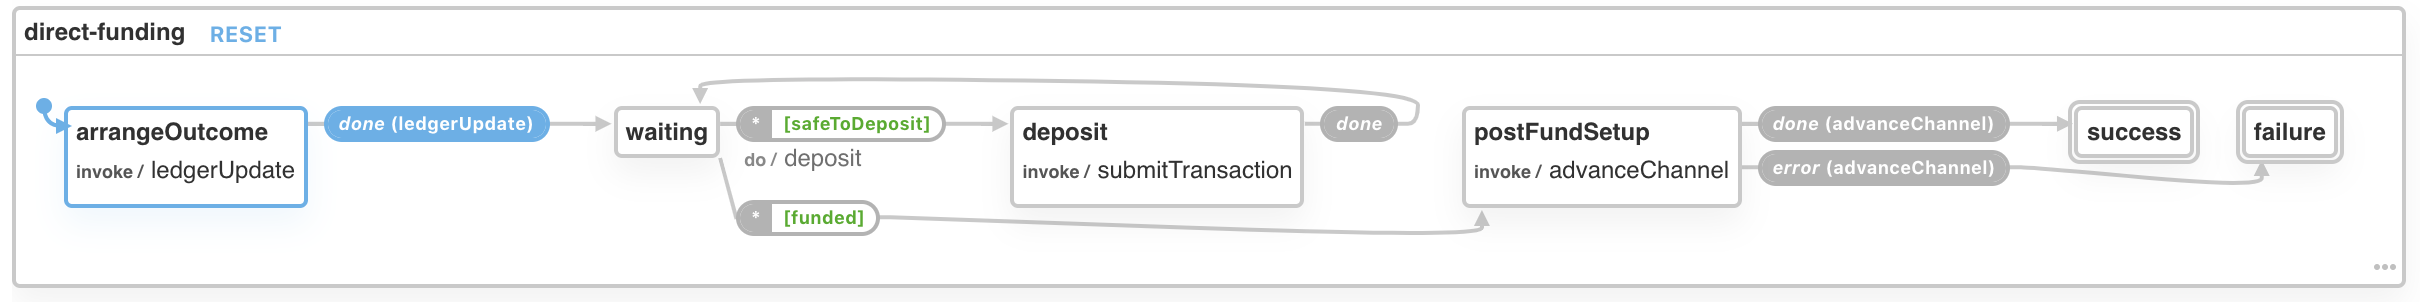
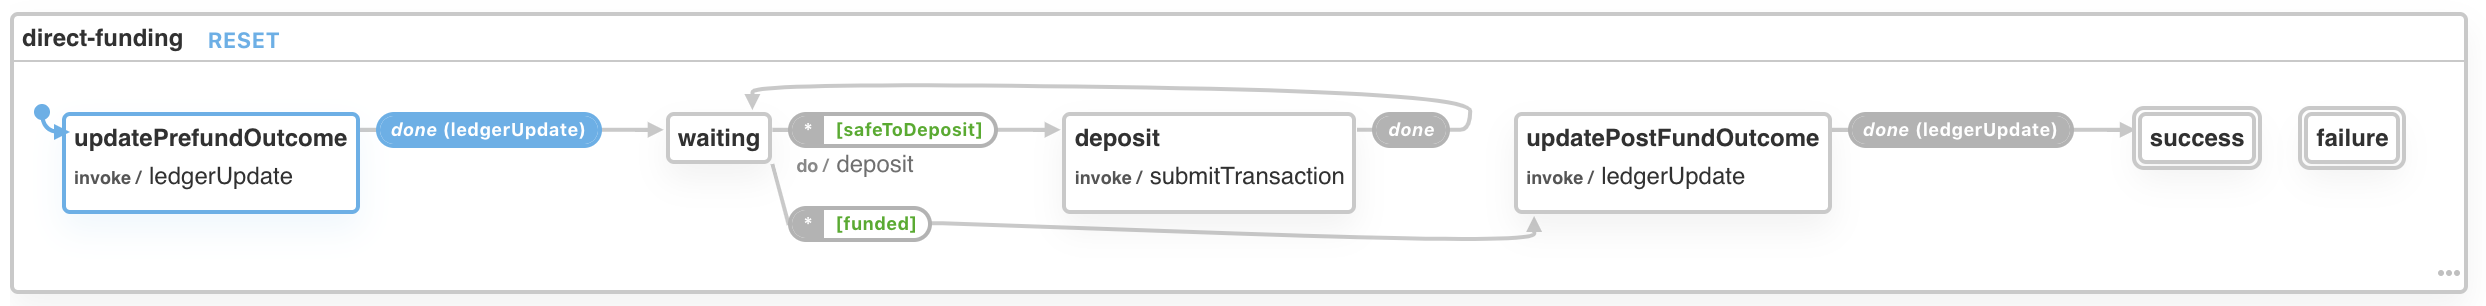
Explain outcome manipulations in direct funding

Changed region(s): [[0.0, 0.0, 1.0, 0.9834], [0.8988, 0.596, 0.9298, 0.6258]]

diff --git a/packages/wallet-specs/src/direct-funding.ts b/packages/wallet-specs/src/direct-funding.ts
@@ -1,18 +1,110 @@
-import { Store } from './store';
+import { Chain, ChannelState, Outcome, OutcomeItem, Store } from '.';
 import { saveConfig } from './utils';
 
+const chain = new Chain();
 const store = new Store();
 
 const PROTOCOL = 'direct-funding';
 const success = { type: 'final' };
 const failure = { type: 'final' };
 
-const arrangeOutcome = {
+interface Context {
+  channelID: string;
+  minimalOutcome: Outcome;
+}
+
+const sum = (a, b) => a + b;
+
+function getHoldings(state: ChannelState, destination: string): number {
+  const { outcome } = state;
+
+  let currentFunding = chain.holdings(state.channelID);
+  return outcome
+    .filter(item => item.destination === destination)
+    .map(item => {
+      const payout = Math.min(currentFunding, item.amount);
+      currentFunding -= payout;
+      return payout;
+    })
+    .reduce(sum);
+}
+
+function assertOk(minimalOutcome: Outcome): boolean {
+  return uniqueDestinations(minimalOutcome).length === minimalOutcome.length;
+}
+
+function obligation(
+  state: ChannelState,
+  minimalOutcome: Outcome,
+  destination: string
+): number {
+  assertOk(minimalOutcome);
+  const myHoldings = getHoldings(state, destination);
+
+  const myTargetLevel = (
+    minimalOutcome.find(item => item.destination === destination) || {
+      amount: 0,
+    }
+  ).amount;
+  return Math.max(myTargetLevel - myHoldings, 0);
+}
+
+function uniqueDestinations(outcome: Outcome): string[] {
+  const firstEntry = (value, index, self) => {
+    return self.indexOf(value) === index;
+  };
+
+  return outcome.map(i => i.destination).filter(firstEntry);
+}
+
+function preDepositOutcome(
+  channelID: string,
+  minimalOutcome: Outcome
+): Outcome {
+  const { state } = store.get(channelID);
+  const { outcome } = state;
+
+  const destinations = uniqueDestinations(outcome.concat(minimalOutcome));
+  return outcome.concat(
+    destinations.map(destination => ({
+      destination,
+      amount: obligation(state, minimalOutcome, destination),
+    }))
+  );
+}
+
+function amount(item: OutcomeItem): number {
+  return item.amount;
+}
+
+function postDepositOutcome(channelID: string): Outcome {
+  const { outcome } = store.get(channelID).state;
+  const destinations = uniqueDestinations(outcome);
+
+  return destinations.map(destination => ({
+    destination,
+    amount: outcome
+      .filter(i => i.destination === destination)
+      .map(amount)
+      .reduce(sum),
+  }));
+}
+
+interface Base {
+  targetChannelID: string;
+  minimalOutcome: Outcome;
+}
+
+type UpdateOutcome = Base & {
+  targetOutcome: Outcome;
+};
+
+const updatePrefundOutcome = {
   invoke: {
     src: 'ledgerUpdate',
-    // data: `context => context`, // This is a bit complicated
+    data:
+      'context => { return { targetChannelID: context.targetChannelID, targetOutcome: preDepositOutcome(context.targetChannelID, context.minimalOutcome), }; }',
     onDone: 'waiting',
-    // onError: 'failure', // This makes the diagram ugly
   },
 };
 
@@ -20,7 +112,7 @@ const waiting = {
   on: {
     '*': [
       { target: 'deposit', cond: 'safeToDeposit', actions: 'deposit' },
-      { target: 'postFundSetup', cond: 'funded' },
+      { target: 'updatePostFundOutcome', cond: 'funded' },
     ],
   },
 };
@@ -33,22 +125,23 @@ const deposit = {
   onError: 'failure',
 };
 
-const postFundSetup = {
+const updatePostFundOutcome = {
   invoke: {
-    src: 'advanceChannel',
+    src: 'ledgerUpdate',
+    data:
+      'context => ({ targetChannelID: context.targetChannelID, targetOutcome: postDepositOutcome(context.targetChannelID), })',
     onDone: 'success',
-    onError: 'failure',
   },
 };
 
 const ledgerFundingConfig = {
   key: PROTOCOL,
-  initial: 'arrangeOutcome',
+  initial: 'updatePrefundOutcome',
   states: {
-    arrangeOutcome,
+    updatePrefundOutcome,
     waiting,
     deposit,
-    postFundSetup,
+    updatePostFundOutcome,
     success,
     failure,
   },
@@ -57,6 +150,11 @@ const ledgerFundingConfig = {
 const guards = {
   safeToDeposit: 'x => true',
   funded: 'x => true',
+};
+
+const helpers = {
+  preDepositOutcome: x => true,
+  postDepositOutcome: x => true,
 };
 
 saveConfig(ledgerFundingConfig, { guards });

diff --git a/packages/wallet-specs/configs/direct-funding.config.js b/packages/wallet-specs/configs/direct-funding.config.js
@@ -1,10 +1,17 @@
 const config = {
   key: 'direct-funding',
-  initial: 'arrangeOutcome',
+  initial: 'updatePrefundOutcome',
   states: {
-    arrangeOutcome: {
+    updatePrefundOutcome: {
       invoke: {
         src: 'ledgerUpdate',
+        data: context => {
+          return {
+            targetChannelID: context.targetChannelID,
+            targetOutcome:
+              'preDepositOutcome(context.targetChannelID, context.minimalOutcome)',
+          };
+        },
         onDone: 'waiting',
       },
     },
@@ -12,7 +19,7 @@ const config = {
       on: {
         '*': [
           { target: 'deposit', cond: 'safeToDeposit', actions: 'deposit' },
-          { target: 'postFundSetup', cond: 'funded' },
+          { target: 'updatePostFundOutcome', cond: 'funded' },
         ],
       },
     },
@@ -21,8 +28,15 @@ const config = {
       onDone: 'waiting',
       onError: 'failure',
     },
-    postFundSetup: {
-      invoke: { src: 'advanceChannel', onDone: 'success', onError: 'failure' },
+    updatePostFundOutcome: {
+      invoke: {
+        src: 'ledgerUpdate',
+        data: context => ({
+          targetChannelID: context.targetChannelID,
+          targetOutcome: 'postDepositOutcome(context.targetChannelID)',
+        }),
+        onDone: 'success',
+      },
     },
     success: { type: 'final' },
     failure: { type: 'final' },

diff --git a/packages/wallet-specs/src/chain.ts b/packages/wallet-specs/src/chain.ts
@@ -1,0 +1,43 @@
+import { ChannelState, Outcome, Recipient, SignedState } from '.';
+
+export class Chain {
+  private _holdings: { [channelID: string]: number };
+
+  constructor() {
+    this._holdings = {
+      '0xabc': 1,
+      '0x123': 2,
+    };
+  }
+
+  public holdings(channelID) {
+    return this._holdings[channelID];
+  }
+
+  public deposit(channelID: string, expectedHeld: number, amount: number): Deposited | Revert {
+    const current = this._holdings[channelID] || 0;
+    if (current >= expectedHeld) {
+      this._holdings[channelID] = (this._holdings[channelID] || 0) + amount;
+      return {
+        type: 'DEPOSITED',
+        channelID,
+        amount,
+        total: this._holdings[channelID],
+      };
+    } else {
+      return 'REVERT';
+    }
+  }
+}
+
+// The store would send this action whenever the channel is updated
+export interface Deposited {
+  type: 'DEPOSITED';
+  channelID: string;
+  amount: number;
+  total: number;
+}
+
+export type Revert = 'REVERT';
+
+export type ChainEvent = Deposited | Revert;

diff --git a/packages/wallet-specs/src/index.ts b/packages/wallet-specs/src/index.ts
@@ -1,7 +1,11 @@
 export type AppData = string;
 export type Signature = string;
 export type Recipient = any;
-export type Outcome = any[];
+export interface OutcomeItem {
+  destination: string;
+  amount: number;
+}
+export type Outcome = OutcomeItem[];
 export type Address = string;
 export type PrivateKey = string;
 
@@ -10,6 +14,7 @@ export interface ChannelState {
   turnNumber: number;
   outcome: Outcome;
   appData: AppData;
+  channelID: string;
 }
 
 export interface SignedState {
@@ -27,3 +32,6 @@ export interface Failure {
 export interface Entry {
   type: '';
 }
+
+export { Chain } from './chain';
+export { Store } from './store';

diff --git a/packages/wallet-specs/src/store.ts b/packages/wallet-specs/src/store.ts
@@ -9,6 +9,7 @@ export class Store {
     this.store = {
       '0xabc': {
         state: {
+          channelID: '0xabc',
           turnNumber: 0,
           outcome: NULL_OUTCOME,
           appData: '0x',
